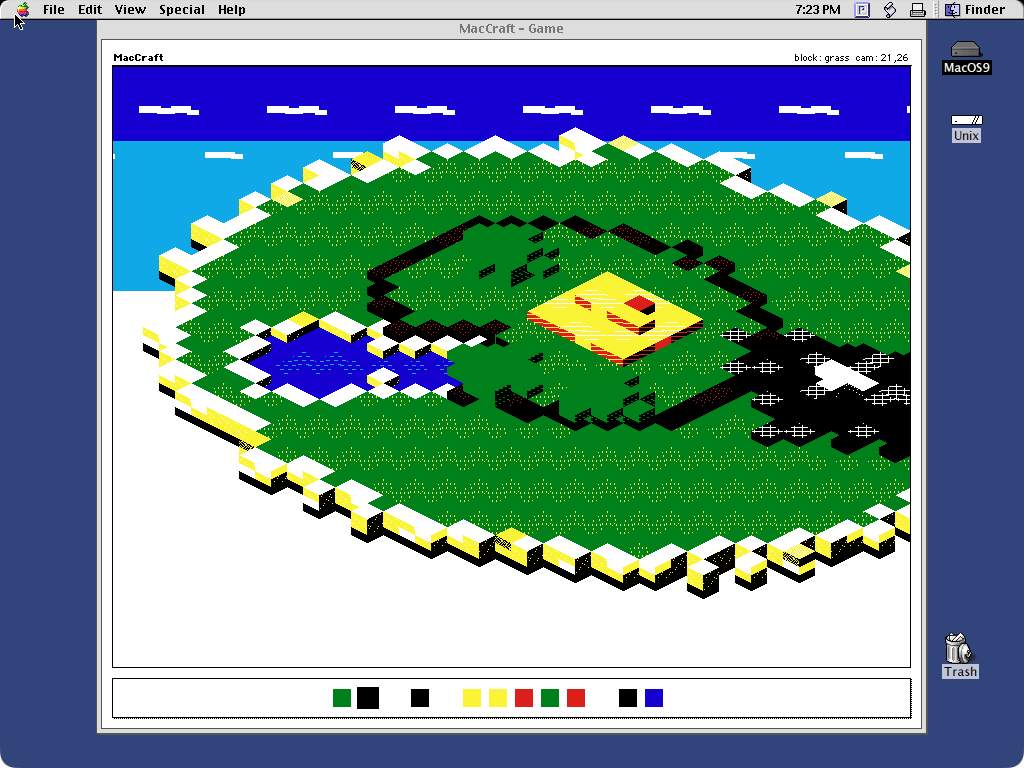
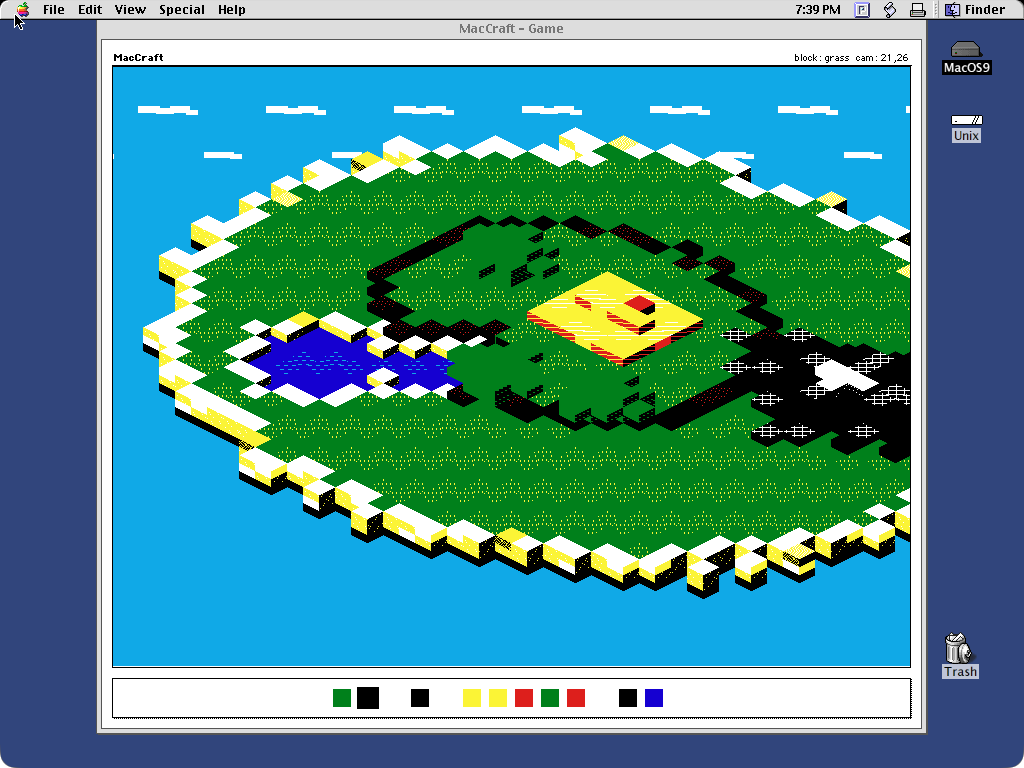
feat: uniform sky, and record the direct-write texture prototype
Minecraft's sky is one colour with clouds on it. The gradient could not survive
this display: any red or green step quantises into a hard band, and the previous
ramp turned into a blue-to-white cliff half way down the window. Zenith and
horizon are now the same sky blue, so the 24 bands are invisible and only the
flat white clouds read.

docs/textures.md now records a prototype that did get textured pixels onto the
screen -- by locking the device PixMap and writing the band bytes directly,
which is the only route that worked -- along with the two geometry faults that
stopped it, and the correct way to read the device palette (a Palette of
ColorInfo, not a ColorTable). The prototype is not in the build: it placed the
world wrong and v1.0.5's polygon renderer places it right.

Changed region(s): [[0.0938, 0.375, 0.9062, 0.875], [0.0938, 0.0625, 0.9062, 0.1875]]

diff --git a/src/game/sky.c b/src/game/sky.c
@@ -33,12 +33,17 @@ enum {
     /* Minecraft's sky is a single mid blue that only pales near the horizon.
      * The original top level (1,3,7) is a deep navy that quantises to black on a
      * 256-colour display, so the top of the sky read as a black band. */
-    kSkyTopRed = 4,
-    kSkyTopGreen = 7,
-    kSkyTopBlue = 12,
-    kSkyHorizonRed = 13,
-    kSkyHorizonGreen = 12,
-    kSkyHorizonBlue = 12
+    /* Minecraft's sky is one colour with clouds on it. A gradient cannot be
+     * drawn without cliffs here either: any red/green step quantises to a hard
+     * band on a 256-colour display, and the first version of this ramp turned
+     * into a blue-to-white cliff half way down the window. So zenith and
+     * horizon are the same sky blue and the bands are invisible. */
+    kSkyTopRed = 6,
+    kSkyTopGreen = 9,
+    kSkyTopBlue = 14,
+    kSkyHorizonRed = 6,
+    kSkyHorizonGreen = 9,
+    kSkyHorizonBlue = 14
 };
 
 /* Bands in Sky_Draw.  Ten bands over a ~590 pixel view meant ~59 pixels of

diff --git a/docs/textures.md b/docs/textures.md
@@ -22,7 +22,32 @@ tree except one thing: getting the pixels onto the screen.
 distinct and that the bake is a bijection onto the silhouette (256 inked pixels
 for a top face, 128 for a side), deterministic and monotone under shading.
 
-## What blocks it
+## Update: the direct-write route works, placement does not yet
+
+A later attempt took a different road and got the pixels on screen: lock the
+device PixMap and write the band bytes straight into it. Sprites appeared with
+their real texture, which proves the bake, the shading steps and the row copy are
+all correct. Two things were still wrong when it was set aside:
+
+- the sheet was written at local coordinates, and a window's `portRect` starts at
+  0,0 so `LocalToGlobal` is a no-op for it; with the window's origin passed in
+  explicitly the sprites moved but still landed outside the play area, and
+  disabling the hand clipping did not change where they appeared;
+- the frame it produced also showed the play area sky short, which points at the
+  same geometry, not at the blit.
+
+That prototype was removed rather than shipped, because v1.0.5's polygon
+renderer draws the world correctly and the direct-write version did not. The next
+person should start by logging `sx, sy` and `sDisplayRect` for the first ten
+blocks in the harness log (`src/selftest.c` already writes one) and comparing
+them with what the polygon path draws -- the pixel writing itself is solved.
+
+The device palette is also readable now: `pmTable` on an indexed GDevice holds a
+`Palette` (a dense list of `ColorInfo` with `ciRGB`), not a `ColorTable`. Reading
+it through that structure gives a usable nearest-colour map; reading it as a
+`ColorTable` is what made every sprite white earlier.
+
+## What blocks it (as of v1.0.5)
 
 `CopyBits`, `CopyMask` and `CopyDeepMask` from an offscreen source into this
 window do not transfer colour on the emulated Mac OS 9 guest. Measured, not
